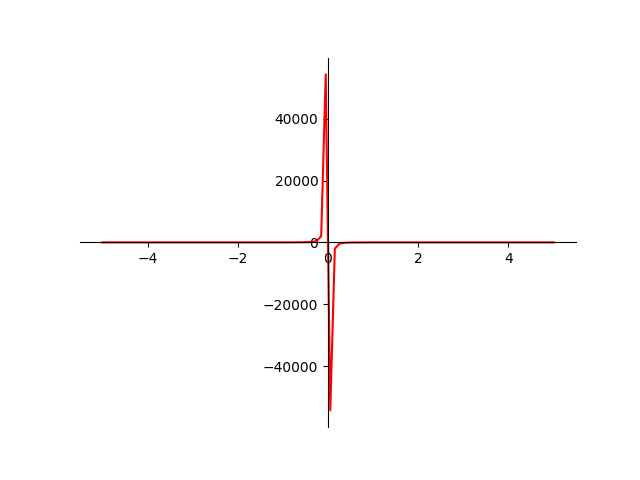
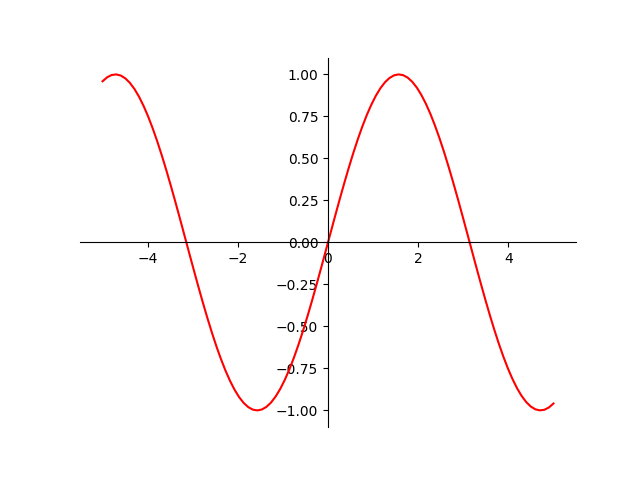
graphdraw1

diff --git a/main.py b/main.py
@@ -1,7 +1,4 @@
 #---------------------------------------------------------------------------
-
-
-
 import telebot
 import time
 import random
@@ -94,6 +91,7 @@ def lalala(message):
             with open("graphdraw.py", "w") as file:
                 file.write(
 '''
+from numpy import sqrt, sin, cos, pi
 import matplotlib.pyplot as plt
 import os.path
 import numpy as np

diff --git a/graphdraw.py b/graphdraw.py
@@ -1,9 +1,10 @@
 
+from numpy import sqrt, sin, cos, pi
 import matplotlib.pyplot as plt
 import os.path
 import numpy as np
 x = np.linspace(-5,5,100)
-y=x-(7/x**3)
+y=sin(x)
 
 fig = plt.figure()
 ax = fig.add_subplot(1, 1, 1)

diff --git a/integral.py b/integral.py
@@ -1,4 +1,5 @@
 import numpy as np
+from numpy import sqrt, sin, cos, pi
 with open("int_get.txt", "r") as file:
     for line in file:
         text = str(line)
